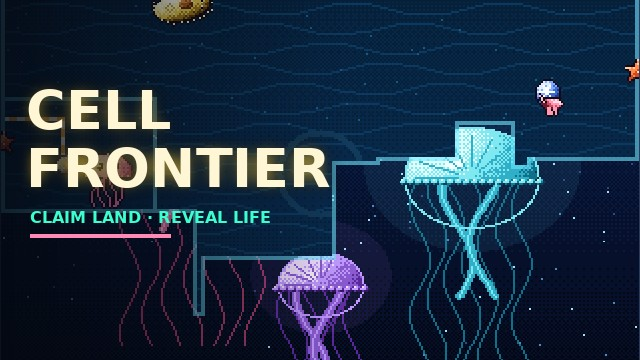
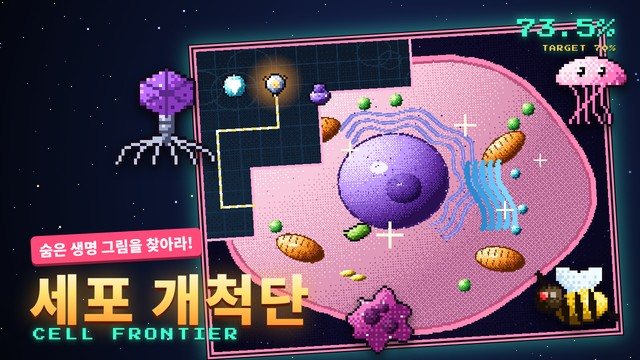
세포 개척단 썸네일을 컨셉 아트로 교체
반쯤 드러난 동물 세포 그림, 선을 긋는 탐침, 판 밖으로 튀어나온 보스 4종과 제목으로 구성 (tools/cell-frontier/concept.html로 다시 만들 수 있음)

Claude-Session: https://claude.ai/code/session_01UFhV39Q5HiHHCjx3qBq9Aw

diff --git a/tools/cell-frontier/concept.html b/tools/cell-frontier/concept.html
@@ -1,0 +1,56 @@
+<!DOCTYPE html><html><head><meta charset="utf-8">
+<link href="https://fonts.googleapis.com/css2?family=Noto+Sans+KR:wght@900&family=Press+Start+2P&display=swap" rel="stylesheet">
+<style>html,body{margin:0;background:#000}#w{position:relative;width:1280px;height:720px;overflow:hidden}
+canvas{position:absolute;inset:0}
+.t{position:absolute;left:58px;bottom:70px;font-family:'Noto Sans KR';font-weight:900;font-size:112px;line-height:1;letter-spacing:4px;
+ background:linear-gradient(180deg,#fffbe8 0%,#ffe070 45%,#ff9a30 100%);-webkit-background-clip:text;color:transparent;
+ filter:drop-shadow(0 6px 0 #5a1a08) drop-shadow(0 0 22px rgba(255,170,40,.55))}
+.e{position:absolute;left:66px;bottom:38px;font-family:'Press Start 2P';font-size:26px;color:#3cffcf;letter-spacing:6px;text-shadow:0 4px 0 #063a2e,0 0 14px rgba(60,255,207,.6)}
+.s{position:absolute;left:62px;bottom:200px;font-family:'Noto Sans KR';font-weight:900;font-size:30px;color:#fff;background:#ff4a7a;padding:6px 16px;border-radius:10px;box-shadow:0 5px 0 #8a1a3a;transform:rotate(-3deg)}
+.hud{position:absolute;right:46px;top:38px;font-family:'Press Start 2P';color:#3cffcf;font-size:40px;text-shadow:0 5px 0 #04342a,0 0 18px rgba(60,255,207,.7)}
+.hud small{display:block;font-size:13px;color:#ffd040;margin-top:12px;text-align:right;letter-spacing:2px}
+</style></head><body><div id="w"><canvas id="c" width="1280" height="720"></canvas>
+<div class="s">숨은 생명 그림을 찾아라!</div><div class="t">세포 개척단</div><div class="e">CELL FRONTIER</div><div class="hud">73.5%<small>TARGET 70%</small></div></div>
+<script>
+const L=(s)=>new Promise(r=>{const i=new Image();i.onload=()=>r(i);i.src='../../games/cell-frontier/'+s;});
+(async()=>{
+const [cov,pic,pic2,sp,meta]=await Promise.all([L('c0.png'),L('p00.png'),L('p03.png'),L('sprites.png'),fetch('../../games/cell-frontier/sprites.json').then(r=>r.json())]);
+await document.fonts.ready;
+const c=document.getElementById('c'),g=c.getContext('2d');g.imageSmoothingEnabled=false;
+// 배경: 깊은 우주 + 도트 별
+const bg=g.createRadialGradient(820,330,40,820,330,900);bg.addColorStop(0,'#1a2a5a');bg.addColorStop(.5,'#0c1430');bg.addColorStop(1,'#04060e');g.fillStyle=bg;g.fillRect(0,0,1280,720);
+let seed=7;const rnd=()=>(seed=(seed*16807)%2147483647)/2147483647;
+for(let k=0;k<260;k++){g.fillStyle=['#3a4a8a','#6a7ac0','#c0d0ff','#ffe0a0'][k%4];const s=rnd()<.1?4:2;g.fillRect(Math.floor(rnd()*640)*2,Math.floor(rnd()*360)*2,s,s);}
+// 게임판 (320×240): 덮개 위에 계단 모양으로 차지한 땅 → 그림
+const B=document.createElement('canvas');B.width=320;B.height=240;const b=B.getContext('2d');b.imageSmoothingEnabled=false;
+b.drawImage(cov,0,0);
+const poly=[[0,240],[0,150],[40,150],[40,96],[96,96],[96,40],[170,40],[170,0],[320,0],[320,240]];
+b.save();b.beginPath();poly.forEach(([x,y],i)=>i?b.lineTo(x,y):b.moveTo(x,y));b.closePath();b.clip();b.drawImage(pic,0,0);
+b.restore();
+// 경계선
+b.strokeStyle='#ffb0d8';b.lineWidth=2;b.beginPath();poly.slice(1,8).forEach(([x,y],i)=>i?b.lineTo(x,y):b.moveTo(x,y));b.stroke();
+b.strokeStyle='#ff8ab8';b.lineWidth=2;b.strokeRect(1,1,318,238);
+// 그리는 중인 선 (점선) + 탐침
+const tr=[[40,124],[14,124],[14,64],[62,64],[62,30]];
+for(let k=0;k<tr.length-1;k++){const [x0,y0]=tr[k],[x1,y1]=tr[k+1],n=Math.max(Math.abs(x1-x0),Math.abs(y1-y0))/2;for(let i=0;i<n;i++){const x=x0+(x1-x0)*i/n,y=y0+(y1-y0)*i/n;b.fillStyle=(i+k)%4<2?'#ffe060':'#ffffff';b.fillRect(Math.round(x),Math.round(y),2,2);}}
+// 판을 크게, 살짝 기울여 배치
+g.save();g.translate(812,380);g.rotate(-0.06);const S=2.55;
+g.shadowColor='rgba(60,255,207,.55)';g.shadowBlur=40;g.fillStyle='#000';g.fillRect(-160*S-10,-120*S-10,320*S+20,240*S+20);g.shadowBlur=0;
+g.fillStyle='#ff8ab8';g.fillRect(-160*S-8,-120*S-8,320*S+16,240*S+16);g.fillStyle='#120a18';g.fillRect(-160*S-4,-120*S-4,320*S+8,240*S+8);
+g.drawImage(B,-160*S,-120*S,320*S,240*S);
+const spr=(id,f,x,y,s,flip)=>{const m=meta[id];g.save();g.translate(x,y);if(flip)g.scale(-1,1);g.drawImage(sp,m.x+f*m.w,m.y,m.w,m.h,-m.w*s/2,-m.h*s/2,m.w*s,m.h*s);g.restore();};
+// 탐침 빛
+const px=(62-160)*S,py=(30-120)*S;const gl=g.createRadialGradient(px,py,0,px,py,60);gl.addColorStop(0,'rgba(255,200,80,.9)');gl.addColorStop(1,'rgba(255,120,40,0)');g.fillStyle=gl;g.fillRect(px-60,py-60,120,120);
+spr('probe_draw',2,px,py,4.2);
+// 판 안 적들
+spr('r_bacillus',1,(120-160)*S,(150-120)*S,4);spr('s_ribosome',0,(96-160)*S,(40-120)*S,4.2);spr('i_shield',0,(30-160)*S,(30-120)*S,3.6);
+g.restore();
+// 판 밖으로 튀어나온 보스들
+g.shadowColor='rgba(0,0,0,.6)';g.shadowBlur=18;g.shadowOffsetY=10;
+spr('b_phage',2,330,230,6.2);spr('b_jelly',1,1180,170,5.2);spr('b_hornet',3,1150,600,5.4,true);spr('b_cancer',2,760,640,4.6);
+g.shadowBlur=0;g.shadowOffsetY=0;
+// 반짝임
+for(const [x,y,s] of [[930,250,5],[1010,420,4],[780,470,6],[1080,320,3],[700,300,4]]) spr('sparkle',2,x,y,s);
+document.title='done';
+})();
+</script></body></html>
